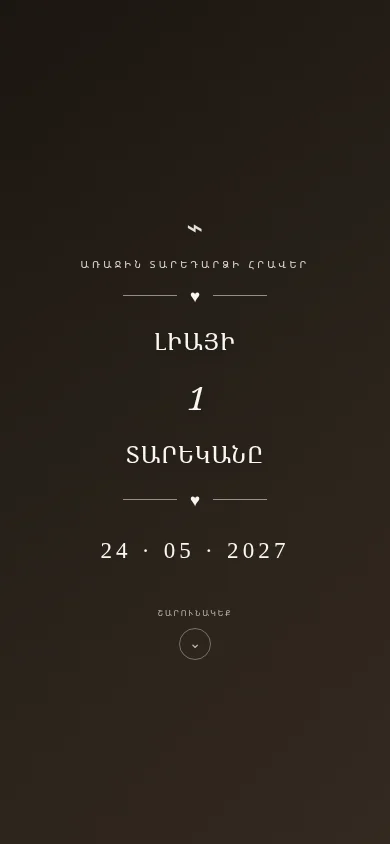
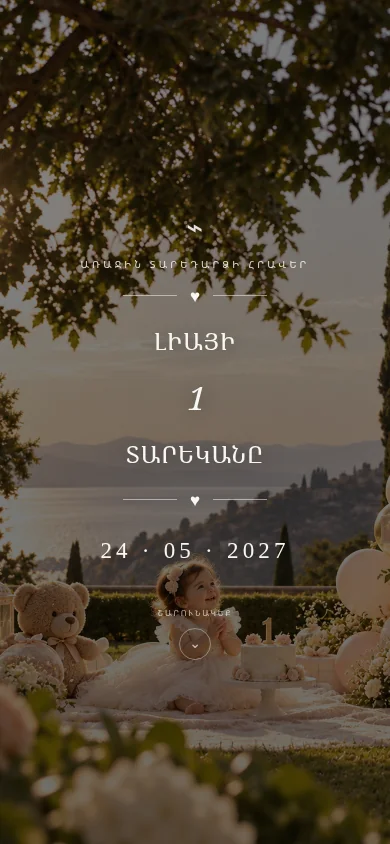
Connect supplied 079 and 080 photos and show 055 in hero

diff --git a/public/templates/079/index.html b/public/templates/079/index.html
@@ -44,8 +44,8 @@
 
     /* =========================================================
        FIXED HERO IMAGE
-       Put your generated image beside this HTML and name it:
-       hero-bg.jpg
+       Owner-provided image beside this HTML:
+       hero-bg.png
        ========================================================= */
 
     .fixed-background {
@@ -55,7 +55,7 @@
       pointer-events: none;
       background:
         linear-gradient(rgba(0,0,0,.33), rgba(0,0,0,.45)),
-        var(--event-photo, linear-gradient(150deg,#342b21,#77614c)) center center / cover no-repeat;
+        var(--event-photo, url("hero-bg.png")) center center / cover no-repeat;
     }
 
     /* Slight dark overlay for readability */
@@ -727,7 +727,7 @@
 
   <!-- =======================================================
        FIXED BACKGROUND
-       Replace hero-bg.jpg with your generated image.
+       Owner-provided hero-bg.png is used as the fixed background.
        ======================================================= -->
   <div class="fixed-background" aria-hidden="true"></div>
 
@@ -915,4 +915,4 @@
 
   </main>
 
-<p class="example-note">Անունը, ամսաթիվը, ժամերը և ծրագիրը օրինակային են։</p><script src="script.js?v=1" defer></script></body></html>
+<p class="example-note">Անունը, ամսաթիվը, ժամերը և ծրագիրը օրինակային են։</p><script src="script.js?v=2" defer></script></body></html>

diff --git a/public/templates/080/index.html b/public/templates/080/index.html
@@ -44,8 +44,8 @@
 
     /* =========================================================
        FIXED HERO IMAGE
-       Put your generated image beside this HTML and name it:
-       hero-bg.jpg
+       Owner-provided image beside this HTML:
+       hero-bg.png
        ========================================================= */
 
     .fixed-background {
@@ -55,7 +55,7 @@
       pointer-events: none;
       background:
         linear-gradient(rgba(0,0,0,.33), rgba(0,0,0,.45)),
-        var(--event-photo, linear-gradient(150deg,#342b21,#77614c)) center center / cover no-repeat;
+        var(--event-photo, url("hero-bg.png")) center center / cover no-repeat;
     }
 
     /* Slight dark overlay for readability */
@@ -727,7 +727,7 @@
 
   <!-- =======================================================
        FIXED BACKGROUND
-       Replace hero-bg.jpg with your generated image.
+       Owner-provided hero-bg.png is used as the fixed background.
        ======================================================= -->
   <div class="fixed-background" aria-hidden="true"></div>
 
@@ -915,4 +915,4 @@
 
   </main>
 
-<p class="example-note">Անունը, ամսաթիվը, ժամերը և ծրագիրը օրինակային են։</p><script src="script.js?v=1" defer></script></body></html>
+<p class="example-note">Անունը, ամսաթիվը, ժամերը և ծրագիրը օրինակային են։</p><script src="script.js?v=2" defer></script></body></html>

diff --git a/public/templates/079/script.js b/public/templates/079/script.js
@@ -1,6 +1,6 @@
-// 079 · կնունք. Նկարը դեռ պետք է կցվի որպես ֆայլ։
+// 079 · կնունք. Օգտագործվում է տրամադրված hero-bg.png նկարը։
 'use strict';
-const CONFIG=Object.freeze({invitationNumber:'079',childName:'Մարի',eventDate:'2027-05-24T15:00:00+04:00',backgroundImage:'',rsvpEndpoint:''});
+const CONFIG=Object.freeze({invitationNumber:'079',childName:'Մարի',eventDate:'2027-05-24T15:00:00+04:00',backgroundImage:'hero-bg.png',rsvpEndpoint:''});
 
 if(CONFIG.backgroundImage){const image=new Image();image.addEventListener('load',()=>document.documentElement.style.setProperty('--event-photo',`url("${image.src}")`));image.src=CONFIG.backgroundImage;}
 const eventDate=new Date(CONFIG.eventDate);

diff --git a/public/templates/080/script.js b/public/templates/080/script.js
@@ -1,6 +1,6 @@
-// 080 · ծնունդ. Նկարը դեռ պետք է կցվի որպես ֆայլ։
+// 080 · ծնունդ. Օգտագործվում է տրամադրված hero-bg.png նկարը։
 'use strict';
-const CONFIG=Object.freeze({invitationNumber:'080',childName:'Լիա',eventDate:'2027-05-24T15:00:00+04:00',backgroundImage:'',rsvpEndpoint:''});
+const CONFIG=Object.freeze({invitationNumber:'080',childName:'Լիա',eventDate:'2027-05-24T15:00:00+04:00',backgroundImage:'hero-bg.png',rsvpEndpoint:''});
 
 if(CONFIG.backgroundImage){const image=new Image();image.addEventListener('load',()=>document.documentElement.style.setProperty('--event-photo',`url("${image.src}")`));image.src=CONFIG.backgroundImage;}
 const eventDate=new Date(CONFIG.eventDate);

diff --git a/src/routes/index.tsx b/src/routes/index.tsx
@@ -413,7 +413,7 @@ function IndexInner() {
             </div>
           </div>
           <div className="ui-hero-visual">
-            {["063", "078", "064"].map((code, index) => {
+            {["055", "078", "064"].map((code, index) => {
               const invitation = TPL_DATA.find((template) => template.code === code)!;
               return (
                 <div key={code} className={`ui-phone ui-phone-${index + 1}`}>

diff --git a/README.md b/README.md
@@ -9,7 +9,7 @@ The festive placeholder uses evergreen/burgundy/gold colours, decorative SVG bra
 
 The owner has now authorized publishing **all 001–080 invitations**. Both catalogues use the same card fields: number, live price, full package label, category, badges, preview and WhatsApp order links. TOP records appear first in descending code order; all other records follow in descending code order (New/Discount badges do not override that order). The New Year category contains 067–076 and its “coming soon” notice has been replaced by the available collection. Those Excel rows remain tagged Other in the source assignment table, and are exposed under New Year in the catalogue based on their seasonal content.
 
-All public/template entrypoints exist, including a new `066/index.html` copied from its original Armenian-named HTML file. Existing original 066 file is retained. Templates 067–078 are imported from the separate numbered invitation repository, including local assets and music where present. Card previews for 063–080 are WebP captures of the actual invitations. 079/080 still have neutral backgrounds pending the owner's supplied photos (see below).
+All public/template entrypoints exist, including a new `066/index.html` copied from its original Armenian-named HTML file. Existing original 066 file is retained. Templates 067–078 are imported from the separate numbered invitation repository, including local assets and music where present. Card previews for 063–080 are WebP captures of the actual invitations. 079/080 use the owner-supplied baptism and birthday photographs (see below).
 
 ## Local development
 
@@ -34,9 +34,9 @@ npm run check:seo
 
 The preview serves `.output/public` at port 4173 (override with `-- --port 8037`). The existing Nitro preset is Cloudflare; its server module is a worker handler, not a standalone Node HTTP server. The custom preview also avoids the old `vite preview` path mismatch. Do not commit `node_modules` or `.output`.
 
-## Drafts 079 and 080
+## Invitations 079 and 080
 
-`public/templates/079/` (baptism) and `public/templates/080/` (first birthday) follow 055's exact fixed-background/transparent-sections structure with adapted Armenian copy and sample event data. They are now published catalogue entries with package metadata from the owner-provided 001–080 assignment table. Original 055 is unchanged. Their user-supplied inline photographs are still pending downloadable JPG/PNG files; each draft's README explains the expected `hero-bg.jpg`/`CONFIG.backgroundImage` setting. Do not generate replacements without permission.
+`public/templates/079/` (baptism) and `public/templates/080/` (first birthday) follow 055's exact fixed-background/transparent-sections structure with adapted Armenian copy and sample event data. They are now published catalogue entries with package metadata from the owner-provided 001–080 assignment table. Original 055 is unchanged. The owner-supplied `hero-bg.png` photographs are now connected through `CONFIG.backgroundImage` and the CSS fallback. The original PNG files and existing design are preserved. Catalogue WebP previews have been recaptured from the actual invitations.
 
 
 ## Six-package pricing (latest owner update)
@@ -77,3 +77,5 @@ Latest locale verification: TypeScript, production build and SEO checks passed. 
 The page is prerendered with its own metadata/canonical and included in the 83-URL sitemap. Apache rewrite rules preserve direct reloads; the static preview serves its generated directory index. Existing invitation files, prices and URLs are unchanged.
 
 Verification: TypeScript, production build, SEO check, targeted ESLint, and Chromium at 360/390/768/1210/1440 px. Each width covers all three locales, direct load/reload, WhatsApp targets, header/footer entrypoints, active navigation and returning to homepage pricing with header offset. No overflow, header overlap or application errors; external analytics stubbed as in the SEO verification. The prerendered page and enquiry links also work without JavaScript. No live deployment performed.
+
+Homepage hero phones now show the catalogue images for 055 (left), 078 (centre) and 064 (right), keeping the existing phone frames and layout.

diff --git a/public/templates/079/README.md b/public/templates/079/README.md
@@ -1,7 +1,7 @@
 # 079 · Մարիի Սուրբ Մկրտությունը
 
-Cloned from 055 with the same fixed full-screen background, transparent sections, countdown, timeline, RSVP and footer. Copy is adapted for կնունք; names/date/program remain examples. No venue is invented. Existing 055 remains unchanged. Not added to the catalogue or priced.
+Cloned from 055 with the same fixed full-screen background, transparent sections, countdown, timeline, RSVP and footer. Copy is adapted for կնունք; names/date/program remain examples. No venue is invented. Existing 055 remains unchanged. Published in the shared catalogue; package/pricing are defined by the website assignment table.
 
-User's exact image is pending a downloadable file: second image (family outside church). Save it here as hero-bg.jpg and set CONFIG.backgroundImage='hero-bg.jpg'. Do not substitute generated imagery without permission. Until then a neutral gradient appears without broken-image requests.
+The owner's supplied `hero-bg.png` is now connected: family outside the church (baptism). `CONFIG.backgroundImage` uses that filename; the CSS fallback shows the same image before JavaScript loads or when JavaScript is disabled. The original uploaded photo is preserved.
 
 Local Armenian font, reduced motion, name/attendance validation, conditional guest count, truthful no-backend preview. rsvpEndpoint optional; HTTP(S) JSON POST with timeout/error/duplicate safeguards. Music not requested.

diff --git a/public/templates/080/README.md b/public/templates/080/README.md
@@ -1,7 +1,7 @@
 # 080 · Լիայի առաջին տարեդարձը
 
-Cloned from 055 with the same fixed full-screen background, transparent sections, countdown, timeline, RSVP and footer. Copy is adapted for ծնունդ; names/date/program remain examples. No venue is invented. Existing 055 remains unchanged. Not added to the catalogue or priced.
+Cloned from 055 with the same fixed full-screen background, transparent sections, countdown, timeline, RSVP and footer. Copy is adapted for ծնունդ; names/date/program remain examples. No venue is invented. Existing 055 remains unchanged. Published in the shared catalogue; package/pricing are defined by the website assignment table.
 
-User's exact image is pending a downloadable file: first image (first birthday garden). Save it here as hero-bg.jpg and set CONFIG.backgroundImage='hero-bg.jpg'. Do not substitute generated imagery without permission. Until then a neutral gradient appears without broken-image requests.
+The owner's supplied `hero-bg.png` is now connected: first birthday in the garden. `CONFIG.backgroundImage` uses that filename; the CSS fallback shows the same image before JavaScript loads or when JavaScript is disabled. The original uploaded photo is preserved.
 
 Local Armenian font, reduced motion, name/attendance validation, conditional guest count, truthful no-backend preview. rsvpEndpoint optional; HTTP(S) JSON POST with timeout/error/duplicate safeguards. Music not requested.
